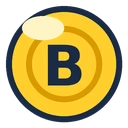
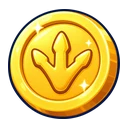
Grafikrunde 12: 48 samlefigurer, mønt, pakke der rystes og åbnes, kortrammer pr. sjældenhed, vitrine som albumbaggrund, byt-ikon

diff --git a/webapp/index.html b/webapp/index.html
@@ -19,11 +19,11 @@
     <meta name="apple-mobile-web-app-status-bar-style" content="black-translucent">
     <meta name="apple-mobile-web-app-title" content="Bert The Bird">
     <title>Bert The Bird – flyvespil og præcisionsverdener</title>
-    <link rel="manifest" href="manifest.webmanifest?v=worlds-relay-119">
+    <link rel="manifest" href="manifest.webmanifest?v=worlds-relay-120">
     <link rel="apple-touch-icon" sizes="180x180" href="icons/bert-180.png">
     <link rel="icon" type="image/png" sizes="192x192" href="icons/bert-192.png">
     <link rel="icon" type="image/png" sizes="32x32" href="icons/favicon-32.png">
-    <link rel="stylesheet" href="style.css?v=worlds-relay-119">
+    <link rel="stylesheet" href="style.css?v=worlds-relay-120">
 </head>
 <body>
     <main id="game-shell" aria-label="Bert The Bird">
@@ -458,36 +458,36 @@
         </div>
         <div id="app-status" class="app-status" role="status" aria-live="polite"></div>
     </main>
-    <script src="bert-i18n.js?v=worlds-relay-119"></script>
-    <script src="lang-en.js?v=worlds-relay-119"></script>
-    <script src="lang-nb.js?v=worlds-relay-119"></script>
-    <script src="lang-sv.js?v=worlds-relay-119"></script>
-    <script src="lang-de.js?v=worlds-relay-119"></script>
-    <script src="lang-es.js?v=worlds-relay-119"></script>
-    <script src="lang-fr.js?v=worlds-relay-119"></script>
-    <script src="lang-pt.js?v=worlds-relay-119"></script>
+    <script src="bert-i18n.js?v=worlds-relay-120"></script>
+    <script src="lang-en.js?v=worlds-relay-120"></script>
+    <script src="lang-nb.js?v=worlds-relay-120"></script>
+    <script src="lang-sv.js?v=worlds-relay-120"></script>
+    <script src="lang-de.js?v=worlds-relay-120"></script>
+    <script src="lang-es.js?v=worlds-relay-120"></script>
+    <script src="lang-fr.js?v=worlds-relay-120"></script>
+    <script src="lang-pt.js?v=worlds-relay-120"></script>
     <script>window.BertI18n.apply();</script>
-    <script src="app-shell.js?v=worlds-relay-119"></script>
-    <script src="unity-collision.js?v=worlds-relay-119"></script>
-    <script src="bert-physics.js?v=worlds-relay-119"></script>
-    <script src="bert-progression.js?v=worlds-relay-119"></script>
-    <script src="bert-tunnel.js?v=worlds-relay-119"></script>
-    <script src="bert-edm.js?v=worlds-relay-119"></script>
-    <script src="bert-bird-run.js?v=worlds-relay-119"></script>
-    <script src="bert-stormline.js?v=worlds-relay-119"></script>
-    <script src="bert-world-mastery.js?v=worlds-relay-119"></script>
-    <script src="bert-sky-relay.js?v=worlds-relay-119"></script>
-    <script src="bert-event-powerups.js?v=worlds-relay-119"></script>
-    <script src="bert-collectible-motion.js?v=worlds-relay-119"></script>
-    <script src="bert-haptics.js?v=worlds-relay-119"></script>
-    <script src="bert-hero-store.js?v=worlds-relay-119"></script>
-    <script src="bert-meta.js?v=worlds-relay-119"></script>
-    <script src="bert-figures.js?v=worlds-relay-119"></script>
-    <script src="bert-social.js?v=worlds-relay-119"></script>
-    <script src="bert-focus-audio.js?v=worlds-relay-119"></script>
-    <script src="bert-star-audio.js?v=worlds-relay-119"></script>
-    <script src="bert-sfx.js?v=worlds-relay-119"></script>
-    <script src="bert-adventure.js?v=worlds-relay-119"></script>
-    <script src="unity-faithful.js?v=worlds-relay-119"></script>
+    <script src="app-shell.js?v=worlds-relay-120"></script>
+    <script src="unity-collision.js?v=worlds-relay-120"></script>
+    <script src="bert-physics.js?v=worlds-relay-120"></script>
+    <script src="bert-progression.js?v=worlds-relay-120"></script>
+    <script src="bert-tunnel.js?v=worlds-relay-120"></script>
+    <script src="bert-edm.js?v=worlds-relay-120"></script>
+    <script src="bert-bird-run.js?v=worlds-relay-120"></script>
+    <script src="bert-stormline.js?v=worlds-relay-120"></script>
+    <script src="bert-world-mastery.js?v=worlds-relay-120"></script>
+    <script src="bert-sky-relay.js?v=worlds-relay-120"></script>
+    <script src="bert-event-powerups.js?v=worlds-relay-120"></script>
+    <script src="bert-collectible-motion.js?v=worlds-relay-120"></script>
+    <script src="bert-haptics.js?v=worlds-relay-120"></script>
+    <script src="bert-hero-store.js?v=worlds-relay-120"></script>
+    <script src="bert-meta.js?v=worlds-relay-120"></script>
+    <script src="bert-figures.js?v=worlds-relay-120"></script>
+    <script src="bert-social.js?v=worlds-relay-120"></script>
+    <script src="bert-focus-audio.js?v=worlds-relay-120"></script>
+    <script src="bert-star-audio.js?v=worlds-relay-120"></script>
+    <script src="bert-sfx.js?v=worlds-relay-120"></script>
+    <script src="bert-adventure.js?v=worlds-relay-120"></script>
+    <script src="unity-faithful.js?v=worlds-relay-120"></script>
 </body>
 </html>

diff --git a/webapp/service-worker.js b/webapp/service-worker.js
@@ -1,4 +1,4 @@
-const CACHE_VERSION = 'bert-the-bird-worlds-relay-119';
+const CACHE_VERSION = 'bert-the-bird-worlds-relay-120';
 
 const frames = (folder, prefix, count) => Array.from(
     { length: count },
@@ -29,40 +29,40 @@ const HAPPY_PIPE_ASSETS = HAPPY_PIPE_COLORS.flatMap((color) => [
 const APP_SHELL = [
     './',
     './index.html',
-    './style.css?v=worlds-relay-119',
-    './bert-i18n.js?v=worlds-relay-119',
-    './lang-en.js?v=worlds-relay-119',
-    './lang-nb.js?v=worlds-relay-119',
-    './lang-sv.js?v=worlds-relay-119',
-    './lang-de.js?v=worlds-relay-119',
-    './lang-es.js?v=worlds-relay-119',
-    './lang-fr.js?v=worlds-relay-119',
-    './lang-pt.js?v=worlds-relay-119',
-    './app-shell.js?v=worlds-relay-119',
-    './unity-collision.js?v=worlds-relay-119',
-    './bert-physics.js?v=worlds-relay-119',
-    './bert-progression.js?v=worlds-relay-119',
-    './bert-tunnel.js?v=worlds-relay-119',
-    './bert-edm.js?v=worlds-relay-119',
-    './bert-bird-run.js?v=worlds-relay-119',
-    './bert-stormline.js?v=worlds-relay-119',
-    './bert-world-mastery.js?v=worlds-relay-119',
-    './bert-sky-relay.js?v=worlds-relay-119',
-    './bert-adventure.js?v=worlds-relay-119',
-    './bert-event-powerups.js?v=worlds-relay-119',
-    './bert-collectible-motion.js?v=worlds-relay-119',
-    './bert-haptics.js?v=worlds-relay-119',
-    './bert-hero-store.js?v=worlds-relay-119',
-    './bert-meta.js?v=worlds-relay-119',
-    './bert-figures.js?v=worlds-relay-119',
-    './bert-sfx.js?v=worlds-relay-119',
+    './style.css?v=worlds-relay-120',
+    './bert-i18n.js?v=worlds-relay-120',
+    './lang-en.js?v=worlds-relay-120',
+    './lang-nb.js?v=worlds-relay-120',
+    './lang-sv.js?v=worlds-relay-120',
+    './lang-de.js?v=worlds-relay-120',
+    './lang-es.js?v=worlds-relay-120',
+    './lang-fr.js?v=worlds-relay-120',
+    './lang-pt.js?v=worlds-relay-120',
+    './app-shell.js?v=worlds-relay-120',
+    './unity-collision.js?v=worlds-relay-120',
+    './bert-physics.js?v=worlds-relay-120',
+    './bert-progression.js?v=worlds-relay-120',
+    './bert-tunnel.js?v=worlds-relay-120',
+    './bert-edm.js?v=worlds-relay-120',
+    './bert-bird-run.js?v=worlds-relay-120',
+    './bert-stormline.js?v=worlds-relay-120',
+    './bert-world-mastery.js?v=worlds-relay-120',
+    './bert-sky-relay.js?v=worlds-relay-120',
+    './bert-adventure.js?v=worlds-relay-120',
+    './bert-event-powerups.js?v=worlds-relay-120',
+    './bert-collectible-motion.js?v=worlds-relay-120',
+    './bert-haptics.js?v=worlds-relay-120',
+    './bert-hero-store.js?v=worlds-relay-120',
+    './bert-meta.js?v=worlds-relay-120',
+    './bert-figures.js?v=worlds-relay-120',
+    './bert-sfx.js?v=worlds-relay-120',
     './flok.html',
-    './flok.js?v=worlds-relay-119',
-    './bert-social.js?v=worlds-relay-119',
-    './bert-focus-audio.js?v=worlds-relay-119',
-    './bert-star-audio.js?v=worlds-relay-119',
-    './unity-faithful.js?v=worlds-relay-119',
-    './manifest.webmanifest?v=worlds-relay-119',
+    './flok.js?v=worlds-relay-120',
+    './bert-social.js?v=worlds-relay-120',
+    './bert-focus-audio.js?v=worlds-relay-120',
+    './bert-star-audio.js?v=worlds-relay-120',
+    './unity-faithful.js?v=worlds-relay-120',
+    './manifest.webmanifest?v=worlds-relay-120',
     './icons/bert-192.png',
     './icons/bert-512.png',
     './icons/bert-180.png',

diff --git a/webapp/unity-faithful.js b/webapp/unity-faithful.js
@@ -16,7 +16,7 @@
     const BASE_WIDTH = 1280;
     const MAX_ASPECT = 21 / 9;
     const BASE_BIRD_X = 185;
-    const BUILD_VERSION = 'worlds-relay-119';
+    const BUILD_VERSION = 'worlds-relay-120';
     const FLAPPY_GRAVITY = 1750;
     const BIRD = { x: 185, width: 124, height: 113 };
     const FIXED_STEP = 1 / 60;
@@ -7844,9 +7844,9 @@
             const st = F.status();
             card.innerHTML = `<button class="round-close" type="button" aria-label="${T('Luk')}">×</button>
                 <h2>${T('SAMLEFIGURER')} · ${st.count}/${st.total}</h2>
-                <div class="figure-bar"><span class="coins">🪙 ${st.coins}</span>
-                <button class="pack-btn" type="button" ${st.coins < F.PACK_COST ? 'disabled' : ''}>${T`ÅBN PAKKE · ${F.PACK_COST} MØNTER`}</button>
-                <button class="swap-btn" type="button" ${st.duplicates < 3 ? 'disabled' : ''}>${T`BYT 3 DUBLETTER (${st.duplicates})`}</button></div>
+                <div class="figure-bar"><span class="coins"><img src="assets/v2/g12/coin.webp" alt="">${st.coins}</span>
+                <button class="pack-btn" type="button" ${st.coins < F.PACK_COST ? 'disabled' : ''}><img src="assets/v2/g12/pack.webp" alt="">${T`ÅBN PAKKE · ${F.PACK_COST} MØNTER`}</button>
+                <button class="swap-btn" type="button" ${st.duplicates < 3 ? 'disabled' : ''}><img src="assets/v2/g12/swap.webp" alt="">${T`BYT 3 DUBLETTER (${st.duplicates})`}</button></div>
                 <p class="odds">${T('Pakke med 3 figurer, den sidste mindst sjælden. Chancer: almindelig 70 %, sjælden 22 %, episk 7 %, legendarisk 1 %.')}</p>`;
             if (reveal) {
                 const row = document.createElement('div'); row.className = 'pack-reveal';
@@ -7870,9 +7870,13 @@
             card.querySelector('.pack-btn').onclick = () => {
                 const res = F.openPack();
                 if (!res.ok) return;
-                playAudio('fanfare'); BertMeta.haptic('reward');
-                render(res.figures);
-                card.scrollTop = 0;
+                BertMeta.haptic('reward');
+                const burst = document.createElement('div');
+                burst.className = 'pack-burst';
+                burst.innerHTML = '<img src="assets/v2/g12/pack.webp" alt=""><img class="open" src="assets/v2/g12/pack-open.webp" alt="">';
+                modal.appendChild(burst);
+                playAudio('whoosh');
+                setTimeout(() => { playAudio('fanfare'); burst.remove(); render(res.figures); card.scrollTop = 0; }, prefersReducedMotion() ? 0 : 1100);
             };
             card.querySelector('.swap-btn').onclick = () => {
                 const res = F.swapDuplicates();

diff --git a/webapp/style.css b/webapp/style.css
@@ -2815,3 +2815,24 @@ aside.menu-record { width: min(250px, 28vw) !important; min-width: 0 !important;
 @keyframes figure-flip { from { opacity: 0; transform: rotateY(90deg) scale(.8); } to { opacity: 1; transform: none; } }
 @media (prefers-reduced-motion: reduce) { .pack-reveal .figure-card { animation: none; opacity: 1; } }
 @media (max-width: 700px) { .figure-grid { grid-template-columns: repeat(4, 1fr); } }
+
+/* Runde 12: rigtig grafik til samlefigurerne */
+.figure-album { background: linear-gradient(rgba(12,30,60,.78), rgba(12,30,60,.86)), url(assets/v2/g12/album-bg.webp) center / cover no-repeat !important; }
+.figure-card { border: 0 !important; background: url(assets/v2/g12/card-common.webp) center / 100% 100% no-repeat !important; box-shadow: none !important; }
+.figure-card.rare { background-image: url(assets/v2/g12/card-rare.webp) !important; }
+.figure-card.epic { background-image: url(assets/v2/g12/card-epic.webp) !important; }
+.figure-card.legendary { background-image: url(assets/v2/g12/card-legendary.webp) !important; }
+.figure-card img { width: 78% !important; height: 78% !important; }
+.figure-card b { color: #1b2a44; opacity: .8; left: 10px; top: 8px; }
+.figure-card i { color: #1b2a44; right: 10px; bottom: 6px; }
+.figure-card.missing { filter: saturate(.3) brightness(.75); }
+.figure-bar .coins { display: inline-flex; align-items: center; gap: 6px; }
+.figure-bar .coins img { width: 26px; height: 26px; }
+.pack-btn img, .swap-btn img { width: 26px; height: 32px; object-fit: contain; vertical-align: middle; margin-right: 6px; }
+.pack-burst { position: absolute; inset: 0; display: grid; place-items: center; z-index: 5; pointer-events: none; }
+.pack-burst img { grid-area: 1 / 1; width: min(40vw, 240px); }
+.pack-burst img:first-child { animation: pack-shake .5s ease-in-out 2; }
+.pack-burst img.open { opacity: 0; animation: pack-open .4s ease-out .65s forwards; }
+@keyframes pack-shake { 25% { transform: rotate(-6deg); } 75% { transform: rotate(6deg); } }
+@keyframes pack-open { from { opacity: 0; transform: scale(.8); } to { opacity: 1; transform: scale(1.1); } }
+.pack-reveal small, .pack-reveal em { color: #1b2a44 !important; }

diff --git a/webapp/flok.html b/webapp/flok.html
@@ -162,9 +162,9 @@
     </div>
   </div>
 </div>
-<script src="bert-hero-store.js?v=worlds-relay-119"></script>
-<script src="bert-meta.js?v=worlds-relay-119"></script>
-<script src="bert-sfx.js?v=worlds-relay-119"></script>
-<script src="flok.js?v=worlds-relay-119"></script>
+<script src="bert-hero-store.js?v=worlds-relay-120"></script>
+<script src="bert-meta.js?v=worlds-relay-120"></script>
+<script src="bert-sfx.js?v=worlds-relay-120"></script>
+<script src="flok.js?v=worlds-relay-120"></script>
 </body>
 </html>

diff --git a/webapp/app-shell.js b/webapp/app-shell.js
@@ -10,7 +10,7 @@
     const installGuideText = document.getElementById('install-guide-text');
     const closeInstallGuide = document.getElementById('close-install-guide');
     const statusToast = document.getElementById('app-status');
-    const ACTIVE_BUILD = 'worlds-relay-119';
+    const ACTIVE_BUILD = 'worlds-relay-120';
     const IS_QA = new URLSearchParams(window.location.search).has('qa');
     let deferredInstallPrompt = null;
     let toastTimer = 0;

diff --git a/tests/offline_resilience_acceptance.py b/tests/offline_resilience_acceptance.py
@@ -11,7 +11,7 @@ from playwright.async_api import async_playwright
 
 ROOT = Path(__file__).resolve().parents[1]
 OUTPUT = ROOT.parent / 'qa-offline-resilience'
-BUILD = 'worlds-relay-119'
+BUILD = 'worlds-relay-120'
 
 
 class GameHandler(SimpleHTTPRequestHandler):
@@ -62,11 +62,11 @@ async def browser_case(browser_type, base, width, height, server):
         await page.wait_for_function('window.BertApp?.offlineReady()', timeout=45000)
         assert await page.evaluate('navigator.serviceWorker.controller !== null')
         cache = await page.evaluate('''async () => {
-            const entries = await caches.open('bert-the-bird-worlds-relay-119');
+            const entries = await caches.open('bert-the-bird-worlds-relay-120');
             return {html: !!(await entries.match('./index.html')),
-                    game: !!(await entries.match('./unity-faithful.js?v=worlds-relay-119')),
-                    relay: !!(await entries.match('./bert-sky-relay.js?v=worlds-relay-119')),
-                    mastery: !!(await entries.match('./bert-world-mastery.js?v=worlds-relay-119')),
+                    game: !!(await entries.match('./unity-faithful.js?v=worlds-relay-120')),
+                    relay: !!(await entries.match('./bert-sky-relay.js?v=worlds-relay-120')),
+                    mastery: !!(await entries.match('./bert-world-mastery.js?v=worlds-relay-120')),
                     gate: !!(await entries.match('./assets/sky-relay/flight-gate-play.webp')),
                     front: !!(await entries.match('./assets/sky-relay/flight-gate-foreground-play.webp')),
                     bell: !!(await entries.match('./assets/sky-relay/wind-chime-target-play.webp'))};

diff --git a/tests/edm_crowd_bursts_acceptance.py b/tests/edm_crowd_bursts_acceptance.py
@@ -24,7 +24,7 @@ async def run_phone(browser, port, width, height):
     posts = []
     page.on('pageerror', lambda error: errors.append(str(error)))
     page.on('request', lambda request: posts.append(request.url) if request.method == 'POST' else None)
-    await page.goto(f'http://127.0.0.1:{port}/?qa=1&noclip=1&rev=worlds-relay-119', wait_until='networkidle')
+    await page.goto(f'http://127.0.0.1:{port}/?qa=1&noclip=1&rev=worlds-relay-120', wait_until='networkidle')
     await page.wait_for_function("document.querySelector('#loading').classList.contains('hidden')")
     await page.locator('#play-btn').click()
     await page.locator('#edm-event-btn').click()
@@ -49,7 +49,7 @@ async def run_phone(browser, port, width, height):
     balls = result['balls']
     shapes = result['shapes']
     view = result['view']
-    assert view['event'] and view['build'] == 'worlds-relay-119'
+    assert view['event'] and view['build'] == 'worlds-relay-120'
     assert len(balls) == 6 and len(shapes) == 6
     assert len({ball['motionAmplitude'] for ball in balls}) >= 4
     assert all(ball['baseY'] + ball['height'] == 670 for ball in balls)

diff --git a/tests/world_milestones_acceptance.py b/tests/world_milestones_acceptance.py
@@ -13,7 +13,7 @@ from pathlib import Path
 from playwright.async_api import async_playwright
 
 ROOT = Path(__file__).resolve().parents[1]
-OUTPUT = ROOT.parent / 'qa-world-milestones-worlds-relay-119'
+OUTPUT = ROOT.parent / 'qa-world-milestones-worlds-relay-120'
 BADGES = {10: 'PUBLIKUMSVØLGE', 11: 'FRI AF ROVFUGLEN', 12: 'STORMPILOT'}
 
 
@@ -33,7 +33,7 @@ async def check(browser, port, width, height, event_id):
     page.on('request', lambda req: posts.append(req.url) if req.method == 'POST' else None)
     page.on('pageerror', lambda err: errors.append(str(err)))
     try:
-        await page.goto(f'http://127.0.0.1:{port}/?qa=1&noclip=1&rev=worlds-relay-119',
+        await page.goto(f'http://127.0.0.1:{port}/?qa=1&noclip=1&rev=worlds-relay-120',
                         wait_until='networkidle')
         await page.wait_for_function('window.BertQA && window.BertWorldMastery && window.BertEDM && window.BertStormline')
         start = await page.evaluate('''async id => {

diff --git a/tests/edm_acceptance.py b/tests/edm_acceptance.py
@@ -26,7 +26,7 @@ async def run_phone(browser, port, width, height):
     page.on('console', lambda message: errors.append(f'console: {message.text}') if message.text.startswith('EDM error') else None)
     await page.add_init_script("window.addEventListener('error', e => console.error(`EDM error ${e.filename}:${e.lineno}:${e.colno} ${e.message} ${e.error?.stack || ''}`));")
     page.on('request', lambda request: posts.append(request.url) if request.method == 'POST' else None)
-    await page.goto(f'http://127.0.0.1:{port}/?qa=1&noclip=1&rev=worlds-relay-119', wait_until='networkidle')
+    await page.goto(f'http://127.0.0.1:{port}/?qa=1&noclip=1&rev=worlds-relay-120', wait_until='networkidle')
     await page.wait_for_function("document.querySelector('#loading').classList.contains('hidden')")
     await page.locator('#play-btn').click()
     button = page.locator('#edm-event-btn')

diff --git a/tests/jungle_intro_acceptance.py b/tests/jungle_intro_acceptance.py
@@ -32,7 +32,7 @@ async def main():
             page = await browser.new_page(viewport={'width': 852, 'height': 393}, device_scale_factor=2)
             errors = []
             page.on('pageerror', lambda error: errors.append(str(error)))
-            await page.goto(f'http://127.0.0.1:{port}/?qa=1&noclip=1&rev=worlds-relay-119', wait_until='networkidle')
+            await page.goto(f'http://127.0.0.1:{port}/?qa=1&noclip=1&rev=worlds-relay-120', wait_until='networkidle')
             await page.wait_for_function("document.querySelector('#loading').classList.contains('hidden')")
             await page.evaluate('async () => { await BertQA.startLevel(4, {seed: 1442}); BertQA.beginRun(); }')
             opening = await page.evaluate('BertQA.simulate(.05)')

diff --git a/tests/edm_progression_foreground_acceptance.py b/tests/edm_progression_foreground_acceptance.py
@@ -31,7 +31,7 @@ async def run_phone(browser, port, width, height, foreground_screenshots=False):
     page = await browser.new_page(viewport={'width': width, 'height': height}, device_scale_factor=2)
     errors = []
     page.on('pageerror', lambda error: errors.append(str(error)))
-    await page.goto(f'http://127.0.0.1:{port}/?qa=1&noclip=1&rev=worlds-relay-119', wait_until='networkidle')
+    await page.goto(f'http://127.0.0.1:{port}/?qa=1&noclip=1&rev=worlds-relay-120', wait_until='networkidle')
     await page.wait_for_function("document.querySelector('#loading').classList.contains('hidden')")
     await page.locator('#play-btn').click()
     await page.locator('#edm-event-btn').click()
